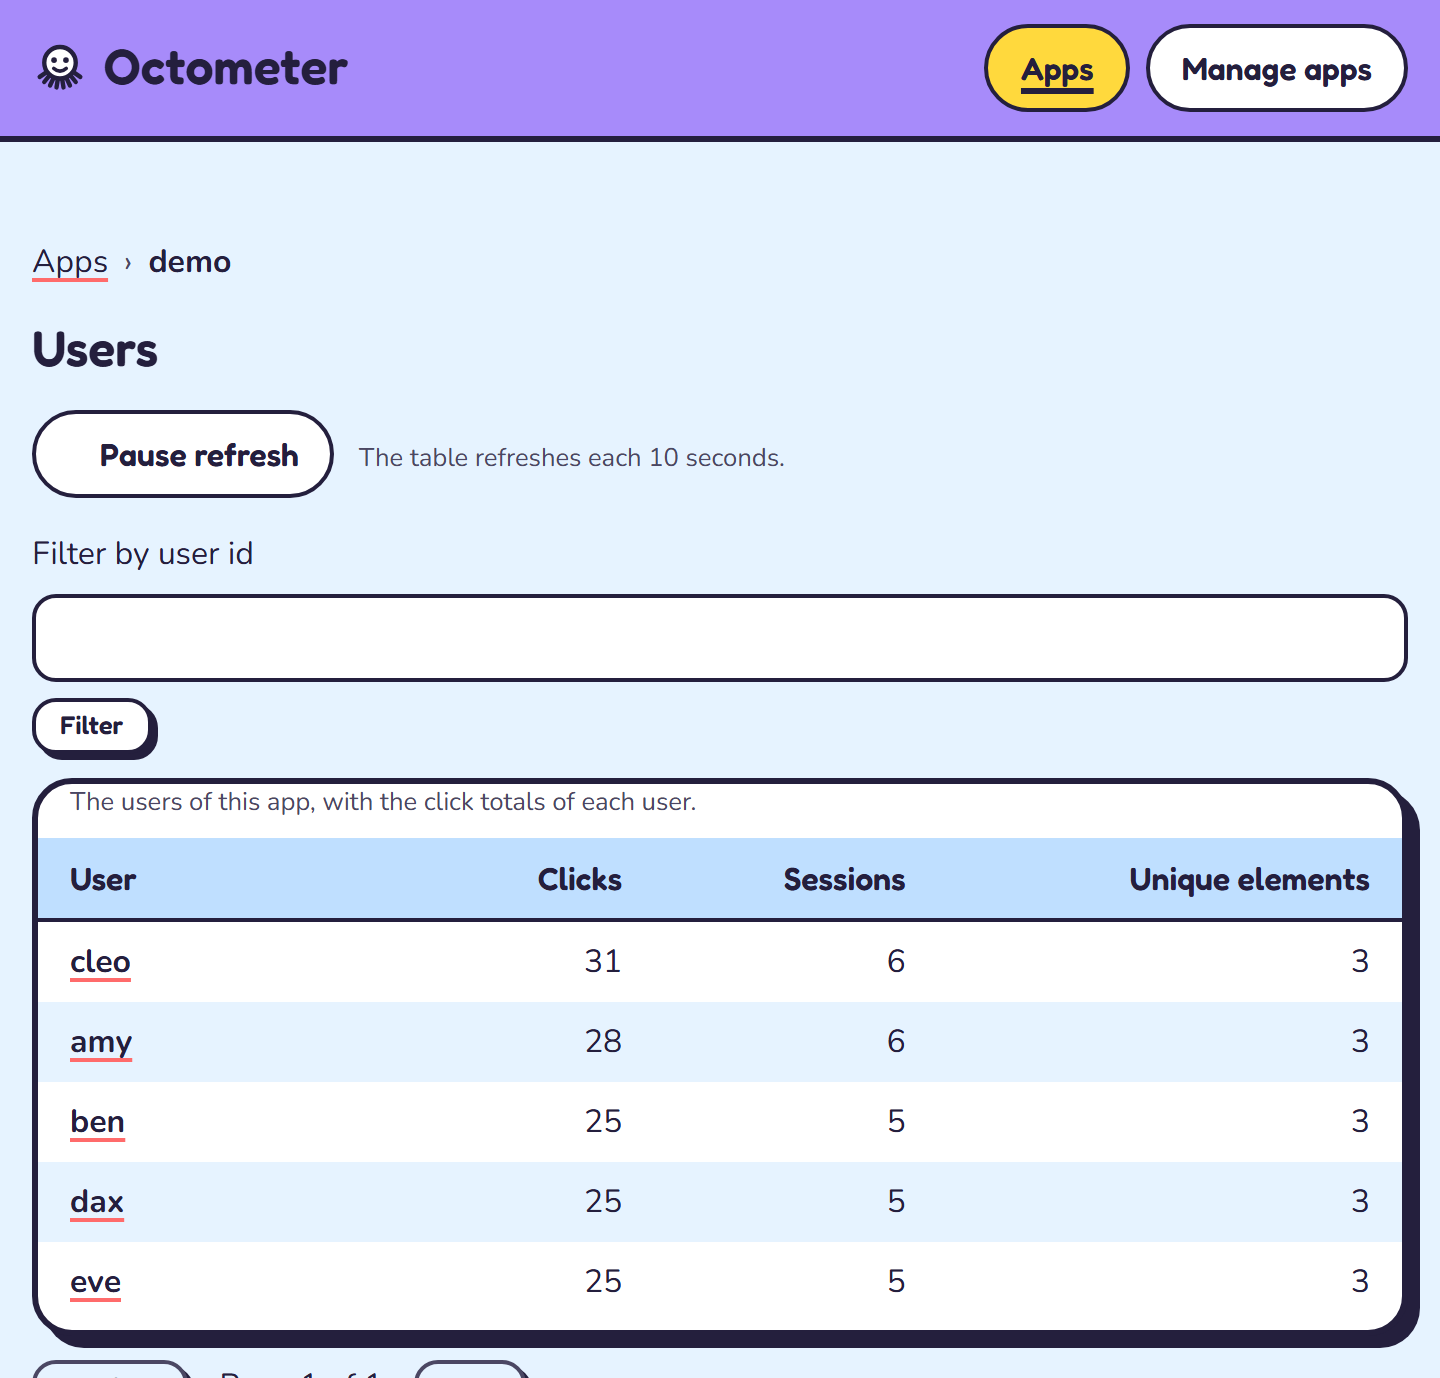
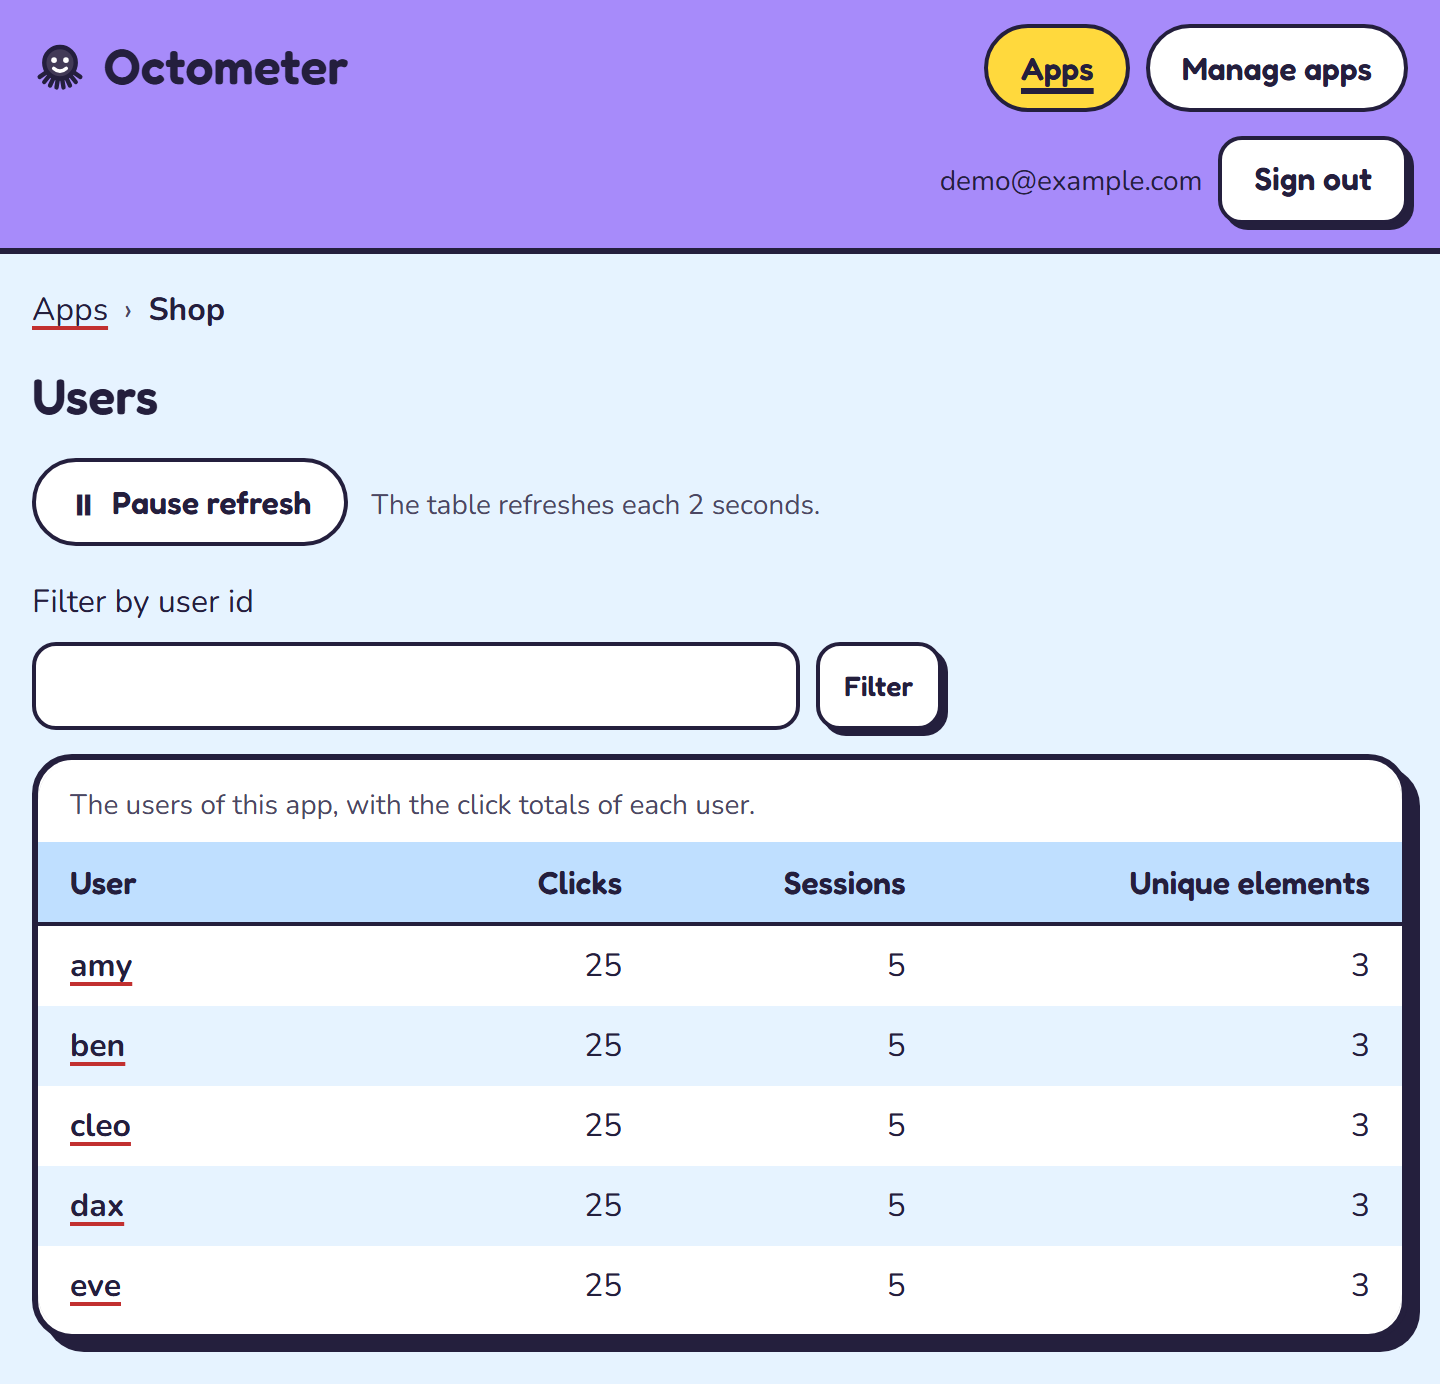
fix(site): recapture the landing-page screenshots after the dashboard changes
The three dashboard screenshots of the landing page showed old defects:
a duplicate breadcrumb heading, "Totals of the last 395 days", and an
empty "First pages" link. Finding D22 is fixed (issue #346). Finding
D16 and finding D19 are fixed (issue #390, issue #394).

This commit recaptures all six PNG files of site/public/screens/ against
a fresh monitor build, with two demo apps (Shop, Blog) and a short, 30
day retention caption, through site/scripts/screenshots.mjs.

The script's own API read needs a session since issue #301 locked every
"/api/" route. Give the script an OCTOMETER_SESSION_COOKIE option, so it
authenticates before it reads the app list and opens each view.

Update the users and the elements image height attribute of index.html
to the real capture size. Add an end-to-end check that the three PNG
files are the current capture, not the stale pre-#378 files.

Refs #378

diff --git a/site/e2e/tests/screens-freshness.spec.ts b/site/e2e/tests/screens-freshness.spec.ts
@@ -1,0 +1,35 @@
+// Issue #378, acceptance criterion 2: a check that the three landing
+// screenshots are the current capture, not the stale images of findings
+// D16, D19, and D22 of the UI audit. The check reads the file system
+// only; it opens no page and needs no running Worker.
+import { statSync } from 'node:fs';
+import { join } from 'node:path';
+import { test, expect } from '@playwright/test';
+
+// "site/e2e/tests" up two levels to "site/public/screens", the folder
+// that "scripts/screenshots.mjs" writes.
+const screensDir = join(__dirname, '..', '..', 'public', 'screens');
+
+// The exact byte size of each stale file before issue #378: the apps
+// view with the duplicate breadcrumb heading of D22, the "Totals of the
+// last 395 days" text of D16, and the empty "First pages" link of D19.
+// A recapture that keeps a stale file gives this same size again.
+const STALE_SIZE_BYTES: Readonly<Record<string, number>> = {
+  'apps-1200.png': 99206,
+  'users-1200.png': 98741,
+  'elements-1200.png': 112950,
+};
+
+test('each landing screenshot file is the current capture, not the stale pre-#378 file', () => {
+  for (const [fileName, staleSize] of Object.entries(STALE_SIZE_BYTES)) {
+    const filePath = join(screensDir, fileName);
+    const stats = statSync(filePath);
+    // A stale or an empty file each fail one check below: an empty file
+    // fails the first line, and an untouched stale file fails the
+    // second line with its own exact byte count (the break proof of
+    // the pull request text runs this exact line against the stale
+    // value).
+    expect(stats.size).toBeGreaterThan(0);
+    expect(stats.size).not.toBe(staleSize);
+  }
+});

diff --git a/site/index.html b/site/index.html
@@ -269,7 +269,7 @@
                   src="/screens/users-1200.png"
                   alt="The users view: the user id, the clicks, the sessions, and the unique elements."
                   width="720"
-                  height="689"
+                  height="692"
                   loading="lazy"
                 />
               </picture>
@@ -293,7 +293,7 @@
                   src="/screens/elements-1200.png"
                   alt="The elements view: the element, the clicks, the sessions, and the last interaction time."
                   width="720"
-                  height="486"
+                  height="524"
                   loading="lazy"
                 />
               </picture>

diff --git a/CHANGELOG.md b/CHANGELOG.md
@@ -76,6 +76,12 @@ The version number follows the tag form `X.Y.Z`, with no prefix.
   sideways scroll at 768 px, at 800 px, or at 870 px. (#442)
 - Give the dark `--focus-halo` its own value, `#726BAB`, so the sunny line reads 3:1 or
   more against it; record the halo-on-band pair as an accepted exception. (#451)
+- Recapture the three landing-page dashboard screenshots against the fixed apps view
+  (#390, #394, #346) and a believable demo data spread: one heading with no duplicate
+  breadcrumb, a short day count, and a real "First pages" link in each row. Give
+  `screenshots.mjs` an `OCTOMETER_SESSION_COOKIE` option, so it reads the signed-in
+  dashboard of design decision D52. Add an end-to-end check that the three PNG files
+  are the current capture, not the stale pre-#378 files. (#378)
 
 ### Contract
 

diff --git a/docs/site.md b/docs/site.md
@@ -88,6 +88,11 @@ needs no app id or user id as an argument. It writes six PNG files into
 `site/public/screens/`: a 1200 px file and a 600 px file for each view, for the two
 sources of the `<picture>` element of each frame.
 
+Every `/api/` route of the monitor needs a session (design decision D52, issue #301).
+Set `OCTOMETER_SESSION_COOKIE` to the `octometer_session` cookie of a signed-in run
+(`name=value`), so the script reads the real app list, not the sign-in page (issue
+#378).
+
 Two rules:
 
 - A screenshot changes only through this script. Never edit a screenshot file by hand.
